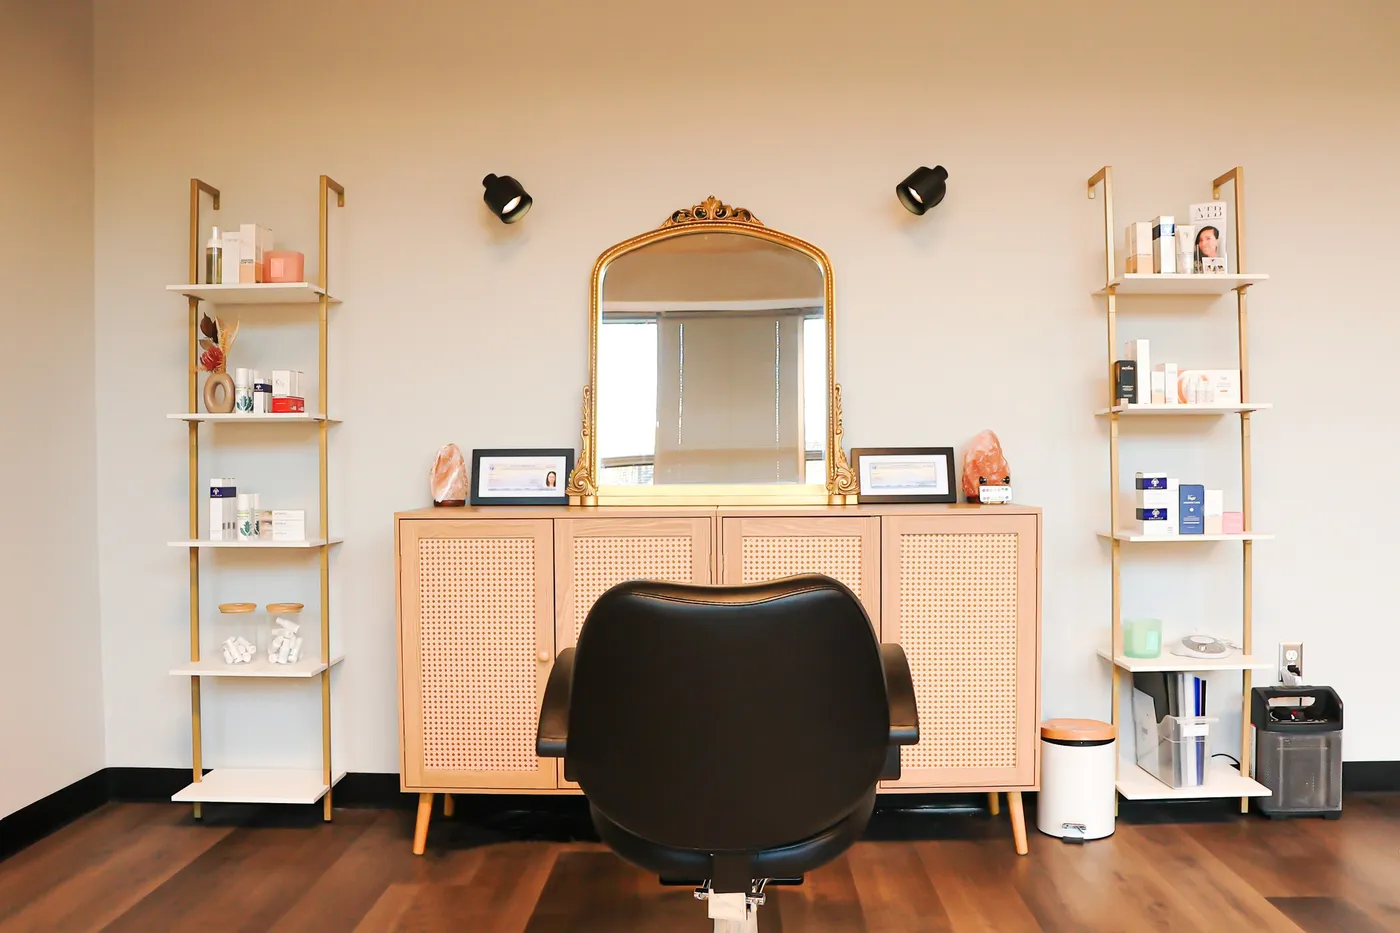
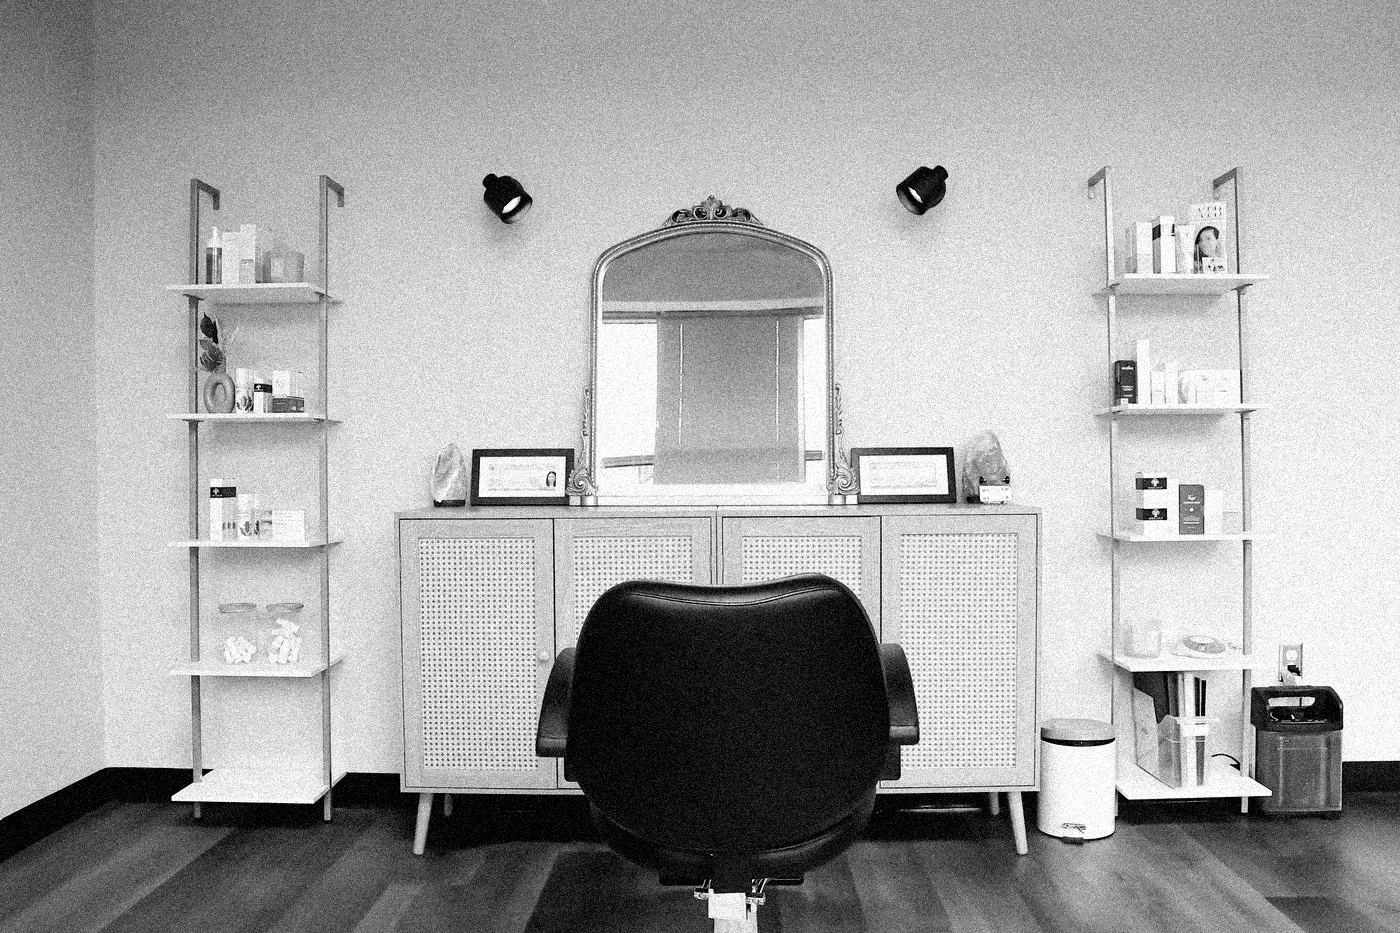
Selaras Haus: black and white grain, drop product shot
Claude-Session: https://claude.ai/code/session_01Tfgmd9Pi4hFCE6iu8WpJuT

diff --git a/site/index.html b/site/index.html
@@ -323,7 +323,7 @@ body{margin:0}
     <section class="row" data-cat="photo"><div class="track"><figure class="panel hero" data-cat="photo"><img src="w/m/jaydyn-hero.webp" alt="Jaydyn F., artist campaign" loading="lazy" draggable="false"></figure><div class="panel more" data-cat="photo"><div class="note"><h3>Jaydyn F.</h3><span class="k">Artist campaign · Music video</span><p>Jaydyn F. is a Seattle rapper I've worked with across his releases. I've made his photos, content and reels, and provided the assets for his cover art, his Spotify and Apple Music pages, profile pictures and promo. My best-performing reel for him reached 120K views. For his SCREAM music video, shot by Real World Jake, I was on set for lighting, set photos, behind the scenes and styling.</p></div><img src="w/m/jaydyn-01.webp" width="933" height="1400" alt="Jaydyn F., artist campaign" loading="lazy" draggable="false"><img src="w/m/jaydyn-02.webp" width="933" height="1400" alt="Jaydyn F., artist campaign" loading="lazy" draggable="false"><img src="w/m/jaydyn-03.webp" width="1400" height="787" alt="Jaydyn F., artist campaign" loading="lazy" draggable="false"><img src="w/m/jaydyn-04.webp" width="933" height="1400" alt="Jaydyn F., artist campaign" loading="lazy" draggable="false"><img src="w/m/jaydyn-05.webp" width="1108" height="1387" alt="Jaydyn F., artist campaign" loading="lazy" draggable="false"><img src="w/m/jaydyn-06.webp" width="1120" height="1400" alt="Jaydyn F., artist campaign" loading="lazy" draggable="false"><img src="w/m/jaydyn-07.webp" width="1400" height="788" alt="Jaydyn F., artist campaign" loading="lazy" draggable="false"></div></div><button type="button" class="pn next" aria-label="Next"><svg viewBox="0 0 7 12" aria-hidden="true"><path d="M1 1l5 5-5 5"/></svg></button></section>
     <section class="row" data-cat="photo"><div class="track"><figure class="panel hero" data-cat="photo"><img src="w/m/bar-hero.webp" alt="Bar Bistro, food + drink" loading="lazy" draggable="false"></figure><div class="panel more" data-cat="photo"><div class="note"><h3>Bar Bistro</h3><span class="k">Food + drink · Influencer collab</span><p>A shoot at Bar Bistro with food influencer Tacoma Uncovered (@tacoma_uncovered). I photographed the food and drinks and made assets for both Bar Bistro and her page.</p></div><img src="w/m/bar-01.webp" width="933" height="1400" alt="Bar Bistro, food + drink" loading="lazy" draggable="false"><img src="w/m/bar-02.webp" width="933" height="1400" alt="Bar Bistro, food + drink" loading="lazy" draggable="false"><img src="w/m/bar-03.webp" width="933" height="1400" alt="Bar Bistro, food + drink" loading="lazy" draggable="false"><img src="w/m/bar-04.webp" width="933" height="1400" alt="Bar Bistro, food + drink" loading="lazy" draggable="false"><img src="w/m/bar-05.webp" width="1400" height="933" alt="Bar Bistro, food + drink" loading="lazy" draggable="false"></div></div><button type="button" class="pn next" aria-label="Next"><svg viewBox="0 0 7 12" aria-hidden="true"><path d="M1 1l5 5-5 5"/></svg></button></section>
     <section class="row" data-cat="photo"><div class="track"><figure class="panel hero" data-cat="photo"><video src="w/chutneys-commercial.mp4" poster="w/chutneys-poster.jpg" style="object-position:50% 50%" muted loop playsinline preload="none" aria-label="Chutneys, commercial"></video></figure><div class="panel more" data-cat="photo"><div class="note"><h3>Chutneys</h3><span class="k">Commercial</span><p>A commercial for Chutneys in Bellevue, plus promo photos for their social media and website.</p></div><img src="w/m/chutneys-01.webp" width="1024" height="683" alt="Chutneys, commercial" loading="lazy" draggable="false"><img src="w/m/chutneys-02.webp" width="1024" height="642" alt="Chutneys, commercial" loading="lazy" draggable="false"><img src="w/m/chutneys-03.webp" width="1024" height="606" alt="Chutneys, commercial" loading="lazy" draggable="false"><img src="w/m/chutneys-04.webp" width="1024" height="657" alt="Chutneys, commercial" loading="lazy" draggable="false"></div></div><button type="button" class="pn next" aria-label="Next"><svg viewBox="0 0 7 12" aria-hidden="true"><path d="M1 1l5 5-5 5"/></svg></button></section>
-    <section class="row" data-cat="photo"><div class="track"><figure class="panel hero" data-cat="photo"><img src="w/m/selaras-hero.webp" alt="Selaras Haus, studio interiors" loading="lazy" draggable="false"></figure><div class="panel more" data-cat="photo"><div class="note"><h3>Selaras Haus</h3><span class="k">Studio interiors · Launch</span><p>Selaras Haus is Angie Tiara's skin, scalp and makeup boutique in Tacoma. I photographed the brand-new space, and when it launched she used the photos for her content, promotion and more.</p></div><img src="w/m/selaras-01.webp" width="933" height="1400" alt="Selaras Haus, studio interiors" loading="lazy" draggable="false"><img src="w/m/selaras-02.webp" width="1400" height="933" alt="Selaras Haus, studio interiors" loading="lazy" draggable="false"><img src="w/m/selaras-05.webp" width="933" height="1400" alt="Selaras Haus, studio interiors" loading="lazy" draggable="false"><img src="w/m/selaras-06.webp" width="1400" height="933" alt="Selaras Haus, studio interiors" loading="lazy" draggable="false"></div></div><button type="button" class="pn next" aria-label="Next"><svg viewBox="0 0 7 12" aria-hidden="true"><path d="M1 1l5 5-5 5"/></svg></button></section>
+    <section class="row" data-cat="photo"><div class="track"><figure class="panel hero" data-cat="photo"><img src="w/m/selaras-hero.webp" alt="Selaras Haus, studio interiors" loading="lazy" draggable="false"></figure><div class="panel more" data-cat="photo"><div class="note"><h3>Selaras Haus</h3><span class="k">Studio interiors · Launch</span><p>Selaras Haus is Angie Tiara's skin, scalp and makeup boutique in Tacoma. I photographed the brand-new space, and when it launched she used the photos for her content, promotion and more.</p></div><img src="w/m/selaras-01.webp" width="933" height="1400" alt="Selaras Haus, studio interiors" loading="lazy" draggable="false"><img src="w/m/selaras-02.webp" width="1400" height="933" alt="Selaras Haus, studio interiors" loading="lazy" draggable="false"><img src="w/m/selaras-05.webp" width="933" height="1400" alt="Selaras Haus, studio interiors" loading="lazy" draggable="false"></div></div><button type="button" class="pn next" aria-label="Next"><svg viewBox="0 0 7 12" aria-hidden="true"><path d="M1 1l5 5-5 5"/></svg></button></section>
     <section class="row" data-cat="photo"><div class="track"><figure class="panel hero" data-cat="photo"><img src="w/m/shaleah-hero.webp" alt="Shaleah Jean, artist photos" draggable="false"></figure><div class="panel more" data-cat="photo"><div class="note"><h3>Shaleah Jean</h3><span class="k">Artist photos</span><p>Shaleah Jean is a Seattle-bred R&B artist and the granddaughter of funk legend Bootsy Collins. I shot her promo photos the same day as her ReelClip performance, and nearly two months later she performed on On the Radar. These photos helped promote her along the way.</p></div><img src="w/m/shaleah-01.webp" width="933" height="1400" alt="Shaleah Jean, artist photos" loading="lazy" draggable="false"><img src="w/m/shaleah-02.webp" width="1400" height="933" alt="Shaleah Jean, artist photos" loading="lazy" draggable="false"><img src="w/m/shaleah-03.webp" width="933" height="1400" alt="Shaleah Jean, artist photos" loading="lazy" draggable="false"><img src="w/m/shaleah-04.webp" width="933" height="1400" alt="Shaleah Jean, artist photos" loading="lazy" draggable="false"><img src="w/m/shaleah-05.webp" width="933" height="1400" alt="Shaleah Jean, artist photos" loading="lazy" draggable="false"><img src="w/m/shaleah-06.webp" width="933" height="1400" alt="Shaleah Jean, artist photos" loading="lazy" draggable="false"><img src="w/m/shaleah-07.webp" width="1400" height="933" alt="Shaleah Jean, artist photos" loading="lazy" draggable="false"></div></div><button type="button" class="pn next" aria-label="Next"><svg viewBox="0 0 7 12" aria-hidden="true"><path d="M1 1l5 5-5 5"/></svg></button></section>
     <section class="row" data-cat="photo"><div class="track"><figure class="panel hero" data-cat="photo"><img src="w/m/leon-hero.webp" alt="Leon Thomas, nightlife" loading="lazy" draggable="false"></figure><div class="panel more" data-cat="photo"><div class="note"><h3>Leon Thomas</h3><span class="k">Nightlife · Press</span><p>Leon Thomas is a Grammy-winning R&B artist, known to many as Andre from Victorious. After his Mutts Don't Heel tour stop at The Showbox, he came to Vice Seattle for the official afterparty, and I photographed the night. Seattle culture and community page DUBSEA published the story with my photos, and the content I helped create reached over 100K views on a single video.</p></div><img src="w/m/leon-03.webp" width="768" height="768" alt="Leon Thomas, nightlife" loading="lazy" draggable="false"><img src="w/m/leon-02.webp" width="1400" height="933" alt="Leon Thomas, nightlife" loading="lazy" draggable="false"><img src="w/m/leon-04.webp" width="1400" height="934" alt="Leon Thomas, nightlife" loading="lazy" draggable="false"></div></div><button type="button" class="pn next" aria-label="Next"><svg viewBox="0 0 7 12" aria-hidden="true"><path d="M1 1l5 5-5 5"/></svg></button></section>
     <section class="row" data-cat="web"><div class="track"><figure class="panel site" data-cat="web"><div class="sw"><div class="dev"><img class="dk" src="w/site-grean-d.webp" alt="GREAN website, desktop" loading="lazy" draggable="false"><img class="ph" src="w/site-grean-m.webp" alt="GREAN website, phone" loading="lazy" draggable="false"></div><figcaption class="note"><h3>GREAN</h3><span class="k">Website</span><p>GREAN, a matcha bar in Seattle's U District. Website, desktop and phone.</p></figcaption></div></figure><figure class="panel site" data-cat="web"><div class="sw"><div class="dev"><img class="dk" src="w/site-grean-d2.webp" alt="GREAN website, desktop" loading="lazy" draggable="false"><img class="ph" src="w/site-grean-m2.webp" alt="GREAN website, phone" loading="lazy" draggable="false"></div><figcaption class="note"><h3>GREAN</h3><span class="k">Website</span><p>GREAN, a matcha bar in Seattle's U District. Website, desktop and phone.</p></figcaption></div></figure></div><button type="button" class="pn next" aria-label="Next"><svg viewBox="0 0 7 12" aria-hidden="true"><path d="M1 1l5 5-5 5"/></svg></button></section>
